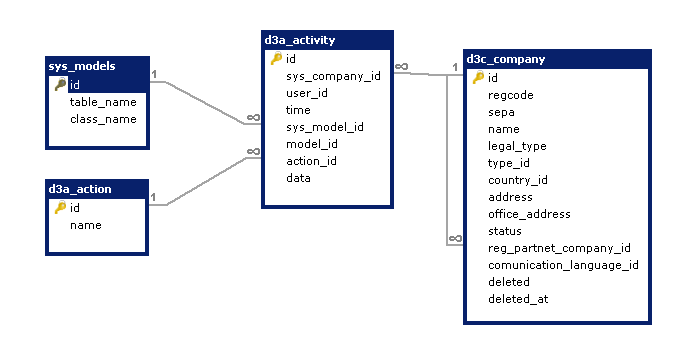
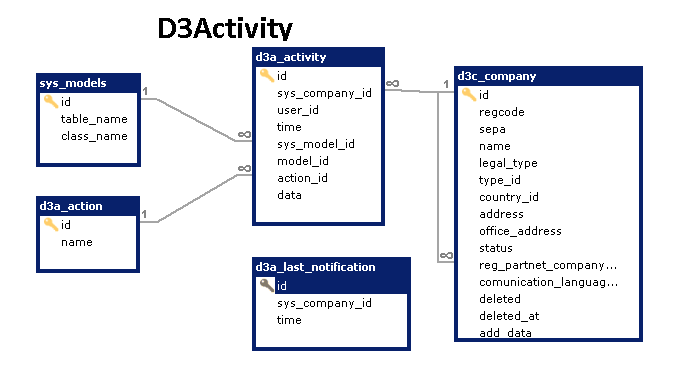
Improvment

Changed region(s): [[0.0311, 0.0306, 0.9644, 0.9472]]

diff --git a/components/DailyActivityNotification.php b/components/DailyActivityNotification.php
@@ -27,7 +27,6 @@ use yii\validators\EmailValidator;
  *                'd3yii2\d3pop3\models\D3pop3Email',
  *                'dektrium\user\models\User',
  *            ],
- *            'recipientUserRolesNames' => ['CompanyOwner'],
  *            'fromMail' => 'net@company.com',
  *            //'sysCompaniesEmails' => [62 => 'uldis@nnn.lt'],
  *            'companyName' => static function(int $companyId) {
@@ -45,8 +44,10 @@ use yii\validators\EmailValidator;
 class DailyActivityNotification extends D3CommandComponent
 {
 
+    public  $sysCompaniesIds = [];
+
     /**
-     * Use, if nod defined config parameter $recipientUserRolesNames
+     * Use, if nod defined config parameter $getCompanyEmail
      * define companies and recipients emails.
      * @var array [
      *  $company1Id => 'email@company1.com',
@@ -56,7 +57,13 @@ class DailyActivityNotification extends D3CommandComponent
     public $sysCompaniesEmails = [];
 
     /**
-     * callable function for getting company name
+     * callable for getting emails for recipients
+     * @var string|callable
+     */
+    public $getCompanyEmail;
+
+    /**
+     * callable for getting company name
      * @var string|callable
      */
     public $companyName;
@@ -89,30 +96,30 @@ class DailyActivityNotification extends D3CommandComponent
     /** @var string */
     public $viewPath = '@d3yii2/d3activity/views/email/dailyActivityNotification';
 
-    /**
-     * If no defined $sysCompaniesEmails, find users by roles
-     * @var array
-     */
-    public $recipientUserRolesNames = [];
-
     public function init()
     {
         foreach ($this->activityModelClassNames as $modelClassName) {
             $this->sysModelIds[] = SysModelsDictionary::getIdByClassName($modelClassName);
         }
-        if (empty($this->sysCompaniesEmails)
-            && $companyActivities = D3aActivity::find()
+        if (!$this->sysCompaniesEmails) {
+            $d3aActivityQuery = D3aActivity::find()
                 ->distinct()
                 ->select(['sys_company_id'])
                 ->andWhere(['sys_model_id' => $this->sysModelIds])
-                ->andWhere('not sys_company_id is null')
+                ->andWhere('not sys_company_id is null');
+            if ($this->sysCompaniesIds) {
+                $d3aActivityQuery->andWhere(['sys_company_id' => $this->sysCompaniesIds]);
+            }
+            if ($companyActivities = $d3aActivityQuery
                 ->asArray()
                 ->all()
-        ) {
-            foreach ($companyActivities as $entry) {
-                $owner = $this->getUserEmailBYRole($entry['sys_company_id']);
-                if (isset($owner[0])) {
-                    $this->sysCompaniesEmails[$entry['sys_company_id']] = $owner[0]['email'];
+            ) {
+                foreach ($companyActivities as $entry) {
+                    $callable = $this->getCompanyEmail;
+                    if (!is_callable($callable)) {
+                        throw new \yii\console\Exception('setting getCompanyEmail must be callable');
+                }
+                    $this->sysCompaniesEmails[$entry['sys_company_id']] = $callable($entry['sys_company_id']);
                 }
             }
         }
@@ -121,8 +128,11 @@ class DailyActivityNotification extends D3CommandComponent
     public function run(D3ComponentCommandController $controller): bool
     {
         parent::run($controller);
-        if (!empty($this->sysCompaniesEmails)) {
-            foreach ($this->sysCompaniesEmails as $companyId => $email) {
+        if (empty($this->sysCompaniesEmails)) {
+            return true;
+        }
+        foreach ($this->sysCompaniesEmails as $companyId => $emails) {
+            foreach ($emails as $email) {
                 $this->out('SysCompnay: ' . $companyId . ';  to: ' . $email);
                 $emailValidator = new EmailValidator();
                 if (empty($companyId)) {
@@ -213,7 +223,9 @@ class DailyActivityNotification extends D3CommandComponent
     private function logSentActivities(int $sysCompanyId): void
     {
         $connection = $this->controller->getConnection();
-        $transaction = $connection->beginTransaction();
+        if (!$transaction = $connection->beginTransaction()) {
+            throw new \yii\db\Exception('Can not initiate transaction');
+        }
         $model = new D3aLastNotification();
         $model->sys_company_id = $sysCompanyId;
         try {
@@ -229,33 +241,4 @@ class DailyActivityNotification extends D3CommandComponent
             $transaction->rollback();
         }
     }
-
-    private function getUserEmailBYRole(int $companyId)
-    {
-        $sql = '
-            SELECT
-                u.email,
-                u.username,
-                u.id
-            FROM
-                user u
-                LEFT OUTER JOIN auth_assignment aa
-                  ON aa.user_id = u.id
-            WHERE
-                aa.sys_company_id = :id
-                AND aa.item_name IN (:item_name)
-                LIMIT 1
-            ';
-
-        $param = [
-            ':id' => $companyId,
-            ':item_name' => implode(",", $this->recipientUserRolesNames),
-        ];
-
-        return Yii::$app
-            ->getDb()
-            ->createCommand($sql, $param)
-            ->queryAll();
-    }
-
 }

diff --git a/README.md b/README.md
@@ -20,7 +20,11 @@ or add
 
 to the `require` section of your `composer.json` file.
 
-## defining components
+## DB
+![DB strukture](https://github.com/d3yii2/d3activity/blob/master/doc/DB.png)
+
+## Defining component
+Register and list 
 ```php
     'components' => [
         'activityList' => [
@@ -44,6 +48,82 @@ to the `require` section of your `composer.json` file.
                 return \Yii::$app->user->id;
             }            
             
+        ],
+    ]
+```
+
+Emailing last activities for some companies
+
+```php
+ 'components' =>
+    [
+        'activityEmail' => [
+            'class' => 'd3yii2\d3activity\components\DailyActivityNotification',
+            /** filter activities by models */
+            'activityModelClassNames' => [
+                'd3yii2\d3pop3\models\D3pop3Email',
+                'dektrium\user\models\User',
+            ],
+            'fromMail' => 'net@irekini.lv',
+            /** limitation for comanies.  */
+            'sysCompaniesEmails' => [62 => 'uldis@weberp.lv'],
+            'companyName' => static function(int $companyId) {
+                if (!$company = \yii2d3\d3persons\models\D3cCompany::findOne($companyId)) {
+                    return null;
+                }
+                return $company->name;
+            },
+            'subject' => 'Company {sysCompanyName} activities'
+        ],
+    ]
+```
+
+Emailing last activities for multiple companies
+
+```php
+ 'components' =>
+    [
+        'activityEmail' => [
+            'class' => 'd3yii2\d3activity\components\DailyActivityNotification',
+            /** filter activities by models */
+            'activityModelClassNames' => [
+                'd3yii2\d3pop3\models\D3pop3Email',
+                'dektrium\user\models\User',
+            ],
+            'fromMail' => 'net@irekini.lv',
+            /** limitation for comanies.  */
+            //'sysCompaniesIds' => [62],
+            'companyName' => static function(int $companyId) {
+                if (!$company = \yii2d3\d3persons\models\D3cCompany::findOne($companyId)) {
+                    return null;
+                }
+                return $company->name;
+            },
+            'getCompanyEmail' => static function(int $companyId) {
+                    $sql = '
+                SELECT
+                    u.email
+                FROM
+                    user u
+                    LEFT OUTER JOIN auth_assignment aa
+                      ON aa.user_id = u.id
+                WHERE
+                    aa.sys_company_id = :id
+                    AND aa.item_name = :item_name
+                    LIMIT 1
+                ';
+
+                    $param = [
+                        ':id' => $companyId,
+                        ':item_name' => 'CompanyOwner',
+                    ];
+
+                    return Yii::$app
+                        ->getDb()
+                        ->createCommand($sql, $param)
+                        ->queryColumn();
+            },
+            'subject' => 'Company {sysCompanyName} activities'
         ],
     ]
 ```
@@ -74,6 +154,3 @@ Get activity record list
             ->getDescList([$sysModelIdA,$sysModelIdB]);
 
 ```
-
-
-## Examples
